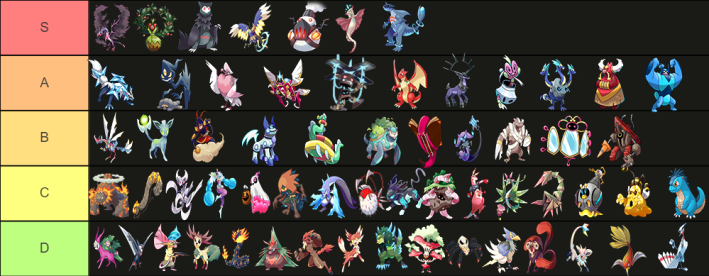
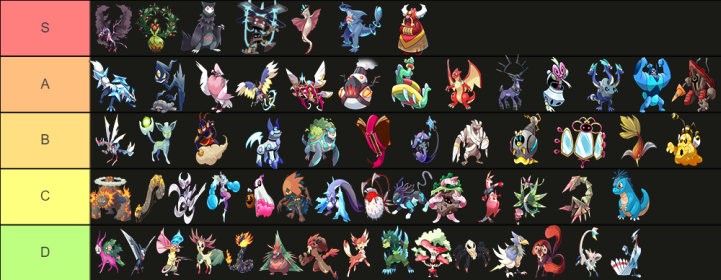
new tier list

diff --git a/Index.html b/Index.html
@@ -7,7 +7,7 @@
     <title>Counter Dex</title>
 
     <link href="https://cdn.jsdelivr.net/npm/bootstrap@5.2.0-beta1/dist/css/bootstrap.min.css" rel="stylesheet" integrity="sha384-0evHe/X+R7YkIZDRvuzKMRqM+OrBnVFBL6DOitfPri4tjfHxaWutUpFmBp4vmVor" crossorigin="anonymous">
-    <link rel="stylesheet" href="sass.css?v=2.5">
+    <link rel="stylesheet" href="sass.css?v=2.6">
     <script src="https://code.jquery.com/jquery-3.6.0.min.js"></script>
     <script src="https://ajax.googleapis.com/ajax/libs/jquery/3.6.1/jquery.min.js"></script>
     <script src="https://cdnjs.cloudflare.com/ajax/libs/Chart.js/2.5.0/Chart.min.js"></script>
@@ -1376,7 +1376,7 @@
               </div>
             </div>
             <!-- Raival -->
-            <div class="accordion-item sortt   sTier">Raival
+            <div class="accordion-item sortt   aTier">Raival
               <h2 class="accordion-header revo " id="flush-headingtwelve">
                 <button class=" accordion-button collapsed" type="button" data-bs-toggle="collapse" data-bs-target="#flush-collapsetwelve" aria-expanded="false" aria-controls="flush-collapsetwelve">
                   <h2>Raival</h2>
@@ -1399,7 +1399,7 @@
                                 <li><h3>Type</h3><button class="skybtn"><a href="https://www.smogon.com/dex/xy/types/flying/" target="_blank">Sky</a></button>  <button class="electricbtn"><a href="https://www.smogon.com/dex/xy/types/electric/" target="_blank">Electric</a></button> </li>
                                 <li><h3>Abilities</h3>Pressure, Static</li>
                                 <li><h3>Tier</h3></li>
-                                <button class="s-tierMon">S-Tier</button>
+                                <button class="a-tierMon">A-Tier</button>
                             </ul>
                         </div>
                         
@@ -1995,7 +1995,7 @@
               </div>
             </div>
             <!-- Murdoll -->
-            <div class="accordion-item sortt   aTier">Murdoll
+            <div class="accordion-item sortt   sTier">Murdoll
                 <h2 class="accordion-header revo " id="flush-headingSixtytwo">
                   <button  class=" accordion-button collapsed" type="button" data-bs-toggle="collapse" data-bs-target="#flush-collapseSixtytwo" aria-expanded="false" aria-controls="flush-collapseSixtytwo">
                     <h2 >Murdoll</h2>
@@ -2018,7 +2018,7 @@
                                   <li><h3>Type</h3><button class="phantombtn"><a href="https://www.smogon.com/dex/xy/types/ghost/" target="_blank">Phantom</a></button>  <button class="spiritbtn"><a href="https://www.smogon.com/dex/xy/types/fairy/" target="_blank">Spirit</a></button> </li>
                                   <li><h3>Abilities</h3>Disguise</li>
                                   <li><h3>Tier</h3></li>
-                                  <button class="a-tierMon">A-Tier</button>
+                                  <button class="s-tierMon">S-Tier</button>
                               </ul>
                           </div>
                           
@@ -2407,7 +2407,7 @@
               </div>
             </div>
 
-            <div class="accordion-item sortt   sTier">Furnice
+            <div class="accordion-item sortt   aTier">Furnice
               <h2 class="accordion-header revo " id="flush-headingtwentyone">
                 <button class=" accordion-button collapsed" type="button" data-bs-toggle="collapse" data-bs-target="#flush-collapsetwentyone" aria-expanded="false" aria-controls="flush-collapsetwentyone">
                   <h2>Furnice</h2>
@@ -2430,7 +2430,7 @@
                                 <li><h3>Type</h3><button class="firebtn"><a href="https://www.smogon.com/dex/xy/types/fire/" target="_blank">Fire</a></button>  <button class="icebtn"><a href="https://www.smogon.com/dex/xy/types/ice/" target="_blank">Ice</a></button> </li>
                                 <li><h3>Abilities</h3>Snow warning, Flame body, Refrigerate</li>
                                 <li><h3>Tier</h3></li>
-                                <button class="s-tierMon">S-Tier</button>
+                                <button class="a-tierMon">A-Tier</button>
                             </ul>
                         </div>
                         
@@ -2815,7 +2815,7 @@
               </div>
             </div>
 
-            <div class="accordion-item sortt   bTier">Raftnesse
+            <div class="accordion-item sortt   aTier">Raftnesse
               <h2 class="accordion-header revo " id="flush-headingtwentyfive">
                 <button class=" accordion-button collapsed" type="button" data-bs-toggle="collapse" data-bs-target="#flush-collapsetwentyfive" aria-expanded="false" aria-controls="flush-collapsetwentyfive">
                   <h2>Raftnesse</h2>
@@ -2838,7 +2838,7 @@
                                 <li><h3>Type</h3><button class="waterbtn"><a href="https://www.smogon.com/dex/xy/types/water/" target="_blank">Water</a></button> </li>
                                 <li><h3>Abilities</h3>Marvel Scale, Competitive, Cute Charm</li>
                                 <li><h3>Tier</h3></li>
-                                <button class="b-tierMon">B-Tier</button>
+                                <button class="a-tierMon">A-Tier</button>
                             </ul>
                         </div>
                         
@@ -4173,7 +4173,7 @@
                             <h3 class="text-center">Stats</h3>
                             <li class="list-group-item list-group-item-success">HP:	80</li>
                             <li class="list-group-item list-group-item-danger">Atk: 70</li>
-                            <li class="list-group-item list-group-item-primary">Def: 75</li>
+                            <li class="list-group-item list-group-item-primary">Def: 70</li>
                             <li class="list-group-item list-group-item-danger">S.Atk: 90</li>
                             <li class="list-group-item list-group-item-primary">S.Def: 100</li>
                             <li class="list-group-item list-group-item-warning">Spe: 70</li>
@@ -4945,7 +4945,7 @@
               </div>
             </div>
 
-            <div class="accordion-item sortt   dTier">Slisces
+            <div class="accordion-item sortt   bTier">Slisces
               <h2 class="accordion-header revo " id="flush-headingfourtysix">
                 <button class=" accordion-button collapsed" type="button" data-bs-toggle="collapse" data-bs-target="#flush-collapsefourtysix" aria-expanded="false" aria-controls="flush-collapsefourtysix">
                   <h2> Slisces</h2>
@@ -4968,7 +4968,7 @@
                                 <li><h3>Type</h3><button class="waterbtn"><a href="https://www.smogon.com/dex/xy/types/water/" target="_blank">Water</a></button>  <button class="metalbtn"><a href="https://www.smogon.com/dex/xy/types/steel/" target="_blank">Metal</a></button> </li>
                                 <li><h3>Abilities</h3>Defiant, Torrent</li>
                                 <li><h3>Tier</h3></li>
-                                <button class="d-tierMon">D-Tier</button>
+                                <button class="b-tierMon">B-Tier</button>
                             </ul>
                         </div>
                         
@@ -5245,7 +5245,7 @@
               </div>
             </div>
 
-            <div class="accordion-item sortt   aTier">Moomega
+            <div class="accordion-item sortt   sTier">Moomega
               <h2 class="accordion-header revo " id="flush-headingfourtynine">
                 <button class=" accordion-button collapsed" type="button" data-bs-toggle="collapse" data-bs-target="#flush-collapsefourtynine" aria-expanded="false" aria-controls="flush-collapsefourtynine">
                   <h2>Moomega</h2>
@@ -5268,7 +5268,7 @@
                                 <li><h3>Type</h3><button class="neutralbtn"><a href="https://www.smogon.com/dex/xy/types/normal/" target="_blank">Neutral</a></button></li>
                                 <li><h3>Abilities</h3>Natural Cure, Serene Grace. Healer</li>
                                 <li><h3>Tier</h3></li>
-                                <button class="a-tierMon">A-Tier</button>
+                                <button class="s-tierMon">S-Tier</button>
                             </ul>
                         </div>
                         
@@ -6027,7 +6027,7 @@
               </div>
             </div>
 
-            <div class="accordion-item sortt   cTier">Eschargot
+            <div class="accordion-item sortt   bTier">Eschargot
               <h2 class="accordion-header revo " id="flush-headingfifthyseven">
                 <button class=" accordion-button collapsed" type="button" data-bs-toggle="collapse" data-bs-target="#flush-collapsefifthyseven" aria-expanded="false" aria-controls="flush-collapsefifthyseven">
                   <h2>Eschargot</h2>
@@ -6050,7 +6050,7 @@
                                 <li><h3>Type</h3><button class="bugbtn"><a href="https://www.smogon.com/dex/xy/types/bug/" target="_blank">Bug</a></button>, <button class="electricbtn"><a href="https://www.smogon.com/dex/xy/types/electric/" target="_blank">Electric</a></button> </li>
                                 <li><h3>Abilities</h3>Levitate</li>
                                 <li><h3>Tier</h3></li>
-                                <button class="c-tierMon">C-Tier</button>
+                                <button class="b-tierMon">B-Tier</button>
                             </ul>
                         </div>
                         
@@ -6122,7 +6122,7 @@
               </div>
             </div>
 
-            <div class="accordion-item sortt   cTier">Honikoba
+            <div class="accordion-item sortt   bTier">Honikoba
               <h2 class="accordion-header revo " id="flush-headingfifthyeight">
                 <button class=" accordion-button collapsed" type="button" data-bs-toggle="collapse" data-bs-target="#flush-collapsefifthyeight" aria-expanded="false" aria-controls="flush-collapsefifthyeight">
                  <h2>Honikoba</h2>
@@ -6145,7 +6145,7 @@
                                 <li><h3>Type</h3><button class="skybtn"><a href="https://www.smogon.com/dex/xy/types/flying/" target="_blank">Sky</a></button>  <button class="bugbtn"><a href="https://www.smogon.com/dex/xy/types/bug/" target="_blank">Bug</a></button> </li>
                                 <li><h3>Abilities</h3>Pressure, Unnerve</li>
                                 <li><h3>Tier</h3></li>
-                                <button class="c-tierMon">C-Tier</button>
+                                <button class="b-tierMon">B-Tier</button>
                             </ul>
                         </div>
                         
@@ -6418,7 +6418,7 @@
               </div>
             </div>
 
-            <div class="accordion-item sortt   bTier">Construckto
+            <div class="accordion-item sortt   aTier">Construckto
                 <h2 class="accordion-header revo " id="flush-headingsixtyone">
                   <button class=" accordion-button collapsed" type="button" data-bs-toggle="collapse" data-bs-target="#flush-collapsesixtyone" aria-expanded="false" aria-controls="flush-collapsesixtyone">
                     <h2>Construkto</h2>
@@ -6441,7 +6441,7 @@
                                 <li><h3>Type</h3><button class="stonebtn"><a href="https://www.smogon.com/dex/xy/types/rock/" target="_blank">Stone</a></button> </li>
                                 <li><h3>Abilities</h3>Sand Stream, Sturdy, Sand Force</li>
                                 <li><h3>Tier</h3></li>
-                                <button class="b-tierMon">B-Tier</button>
+                                <button class="a-tierMon">A-Tier</button>
                             </ul>
                         </div>
                         
